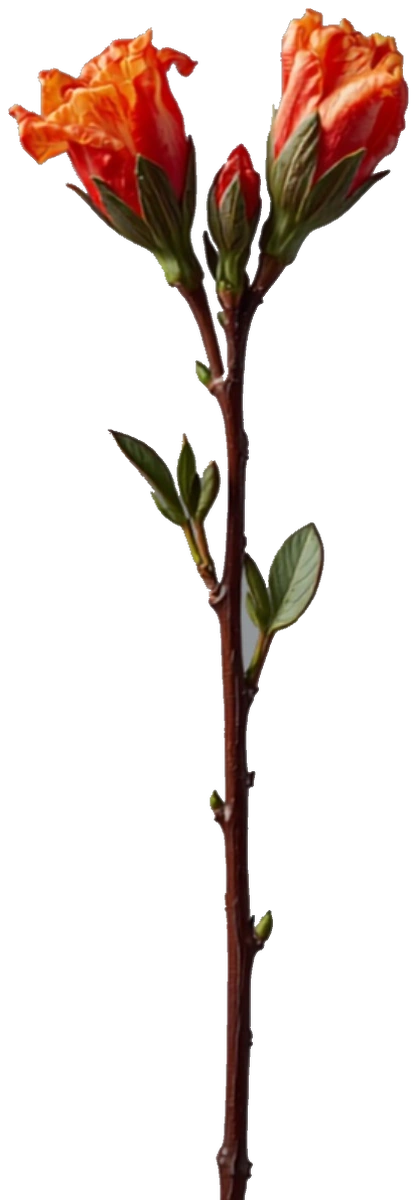
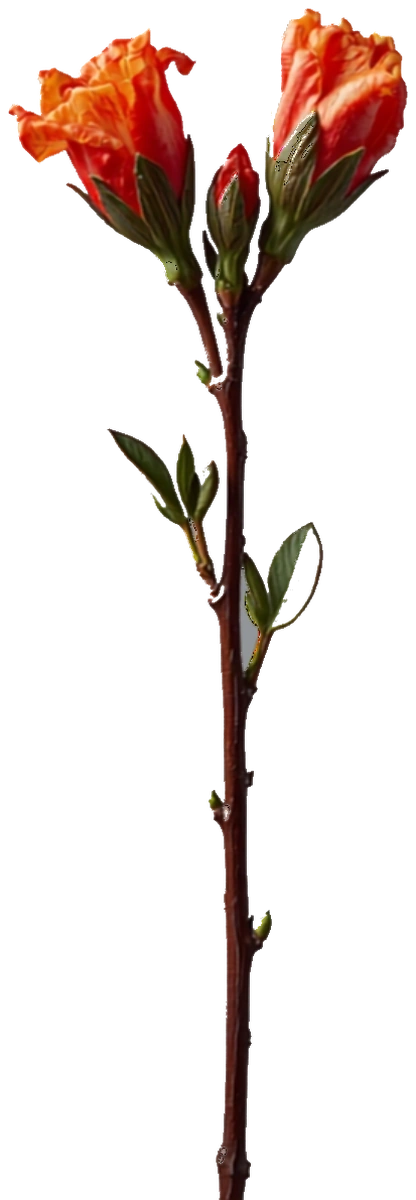
仏手柑を不採用・削除、牡丹/石榴花/桂花を高精度に再切り抜き (#3)
仏手柑(F028)を考証で不採用としFLOWERSから削除、W003のmorimono様式を復元。
牡丹/石榴花/桂花を指定候補(左から3番目)で再切り抜き。make_flower_asset.pyに
高精度マッティング(ソフトアルファ・despill・--global内部背景除去)を実装。テスト18件グリーン。

diff --git a/tests/hana-ar.spec.js b/tests/hana-ar.spec.js
@@ -128,18 +128,12 @@ async function run() {
     assert(!names.includes("松竹梅"), "松竹梅が出てしまっている");
   });
 
-  await bt("bt06", "器適合: W003は夏タブ=蓮・冬タブ=仏手柑(盛物)", async (page) => {
+  await bt("bt06", "器適合: W003は蓮のみ表示", async (page) => {
     await page.goto(`${BASE}?work=W003`);
     await page.click("#startBtn");
     await page.waitForSelector("#thumbs .thumb");
-    // 既定は夏タブ（蓮のみ）
-    const summer = await page.$$eval("#thumbs .thumb .nm", els => els.map(e => e.textContent.trim()));
-    assert.deepStrictEqual(summer, ["蓮"], "夏タブ got: " + JSON.stringify(summer));
-    // 水盤は盛物も受けるので冬タブに仏手柑が出る
-    await page.click('#seasonTabs .tab[data-season="winter"]');
-    await page.waitForSelector("#thumbs .thumb");
-    const winter = await page.$$eval("#thumbs .thumb .nm", els => els.map(e => e.textContent.trim()));
-    assert.deepStrictEqual(winter, ["仏手柑"], "冬タブ got: " + JSON.stringify(winter));
+    const names = await page.$$eval("#thumbs .thumb .nm", els => els.map(e => e.textContent.trim()));
+    assert.deepStrictEqual(names, ["蓮"]);
   });
 
   await bt("bt07", "花サムネイルタップで配置される", async (page) => {

diff --git a/scripts/make_flower_asset.py b/scripts/make_flower_asset.py
@@ -123,6 +123,121 @@ def remove_background(img, tolerance, gradient=False):
     return img
 
 
+def _global_bg_mask(img_rgba, tolerance, gradient):
+    """連結性を使わず、背景色に近い画素を全て背景とみなすマスク（bytearray）。
+    葉などに囲まれ外周とつながらない内部の背景ポケットも除去できる。
+    被写体に背景色（無彩色・淡色）の部分が無い花材専用（例: 桂花・石榴花）。
+    """
+    w, h = img_rgba.size
+    px = img_rgba.load()
+    border = []
+    for x in range(w):
+        border.append(px[x, 0][:3]); border.append(px[x, h - 1][:3])
+    for y in range(h):
+        border.append(px[0, y][:3]); border.append(px[w - 1, y][:3])
+    n = len(border)
+    bg = tuple(sum(c[i] for c in border) // n for i in range(3))
+    def lum(c): return (c[0]*299 + c[1]*587 + c[2]*114)//1000
+    def sat(c): return max(c) - min(c)
+    mask = bytearray(w * h)
+    for y in range(h):
+        row = y*w
+        for x in range(w):
+            c = px[x, y][:3]
+            if gradient:
+                ok = sat(c) <= 30 and abs(lum(c) - lum(bg)) <= tolerance
+            else:
+                ok = (abs(c[0]-bg[0]) <= tolerance and abs(c[1]-bg[1]) <= tolerance
+                      and abs(c[2]-bg[2]) <= tolerance)
+            if ok:
+                mask[row + x] = 1
+    return mask, bg
+
+
+def remove_background_precise(img, tolerance=28, gradient=False, band=3,
+                             feather_lo=None, feather_hi=None,
+                             speck_frac=0.0002, hole_frac=0.0008, connected=True):
+    """高精度な背景除去（numpy/scipy利用）。切り抜き境界の甘さを最小化する。
+
+    通常/フリンジ抑制版(remove_background)との違い:
+      - アンチエイリアス: 境界画素のアルファを背景色との距離で連続的に決め、ギザつきを無くす
+      - エッジ除染(despill): 半透明画素から背景色の混色分を差し引き、灰色のフチ残りを消す
+      - 背景場推定: 前景を最近傍背景色で埋めた「背景色マップ」を基準にするためグラデ背景に強い
+      - ゴミ除去: 微小な不透明の孤立塊（切り抜き残り）を除去
+      - 穴埋め: 被写体内部の小さな透明穴（背景色に近い花芯等の誤除去）を埋める
+    numpy/scipy が無い環境では ImportError。その場合は remove_background にフォールバックする。
+    """
+    import numpy as np
+    from scipy import ndimage
+
+    src = img.convert("RGB")
+    w, h = src.size
+    arr = np.asarray(src, dtype=np.float32)  # (h, w, 3)
+
+    # 1) 背景マスク。connected=True は外周からのフラッドフィル（被写体内の同色域を保護）、
+    #    connected=False は色のみで判定（葉に囲まれた内部の背景ポケットも除去）
+    if connected:
+        mask_bytes, _bg = flood_background_mask(src.convert("RGBA"), tolerance, gradient=gradient)
+    else:
+        mask_bytes, _bg = _global_bg_mask(src.convert("RGBA"), tolerance, gradient=gradient)
+    bg_mask = np.frombuffer(bytes(mask_bytes), dtype=np.uint8).reshape(h, w).astype(bool)
+    fg_mask = ~bg_mask
+    if not fg_mask.any():
+        raise SystemExit("エラー: 不透明画素がありません（toleranceを下げてください）")
+
+    # 2) 背景色マップ: 前景画素を最近傍の背景画素色で埋める（グラデ背景の局所基準色）
+    idx = ndimage.distance_transform_edt(fg_mask, return_distances=False, return_indices=True)
+    bg_field = arr[tuple(idx)]  # (h, w, 3)
+
+    # 3) 局所背景との色距離 → 境界のソフトアルファ
+    dist = np.abs(arr - bg_field).sum(axis=2)  # 0..765
+    lo = tolerance if feather_lo is None else feather_lo
+    hi = tolerance * 3 if feather_hi is None else feather_hi
+    alpha_color = np.clip((dist - lo) / max(1.0, (hi - lo)), 0.0, 1.0)
+
+    # 4) 境界帯（背景からband px以内の前景）だけをソフト化。内部前景は完全不透明のまま
+    dfrombg = ndimage.distance_transform_edt(fg_mask)
+    band_mask = fg_mask & (dfrombg <= band)
+    alpha = fg_mask.astype(np.float32)
+    alpha[band_mask] = alpha_color[band_mask]
+    alpha[bg_mask] = 0.0
+
+    # 5) エッジ除染: 半透明画素の色から背景寄与を差し引く（灰色フチ除去）
+    a3 = alpha[:, :, None]
+    with np.errstate(divide="ignore", invalid="ignore"):
+        fg_col = (arr - (1.0 - a3) * bg_field) / np.where(a3 > 0, a3, 1.0)
+    fg_col = np.clip(fg_col, 0, 255)
+    partial = (alpha > 0) & (alpha < 1)
+    out_rgb = arr.copy()
+    out_rgb[partial] = fg_col[partial]
+
+    # 6) 微小な不透明ゴミの除去（面積 < speck_frac の孤立塊）
+    solid = alpha > 0.5
+    lbl, n = ndimage.label(solid)
+    if n > 0:
+        sizes = ndimage.sum(np.ones_like(lbl), lbl, index=range(1, n + 1))
+        min_area = max(30.0, speck_frac * h * w)
+        keep = np.where(sizes >= min_area)[0] + 1
+        drop = solid & ~np.isin(lbl, keep)
+        alpha[drop] = 0.0
+
+    # 7) 被写体内部の小さな透明穴を埋める（外周に連結しない透明塊のみ）
+    holes = alpha < 0.5
+    lblh, nh = ndimage.label(holes)
+    if nh > 0:
+        border = set(np.unique(np.concatenate(
+            [lblh[0, :], lblh[-1, :], lblh[:, 0], lblh[:, -1]])).tolist())
+        for lab in range(1, nh + 1):
+            if lab in border:
+                continue
+            comp = lblh == lab
+            if comp.sum() < hole_frac * h * w:
+                alpha[comp] = 1.0
+
+    out = np.dstack([out_rgb, alpha * 255.0]).astype(np.uint8)
+    return Image.fromarray(out, "RGBA")
+
+
 def trim_and_resize(img, target_h=1200, max_long=1600, pad=8):
     bbox = img.getbbox()  # アルファ0を除いた範囲
     if bbox is None:
@@ -189,10 +304,29 @@ def main():
                          "低彩度＋近傍明度差で背景を辿る")
     ap.add_argument("--morimono", action="store_true",
                     help="盛物（茎の留めが無く器の上に載る構成）。アンカーを全体水平重心にする")
+    ap.add_argument("--band", type=int, default=3,
+                    help="高精度モードで境界をソフト化する帯の幅(px)。既定3")
+    ap.add_argument("--feather", type=int, nargs=2, metavar=("LO", "HI"), default=None,
+                    help="高精度モードのソフトアルファ境界（色距離 lo hi）。既定 tolerance と tolerance*3")
+    ap.add_argument("--global", dest="global_bg", action="store_true",
+                    help="連結性を使わず色だけで背景除去（葉に囲まれた内部の背景ポケットも除去）。"
+                         "被写体に淡色・無彩色部分が無い花材専用（例: 桂花・石榴花）")
+    ap.add_argument("--legacy", action="store_true",
+                    help="numpy/scipyを使わず旧フリンジ抑制方式で処理する（フォールバック）")
     args = ap.parse_args()
 
     img = Image.open(args.input)
-    img = remove_background(img, args.tolerance, gradient=args.gradient)
+    lo, hi = (args.feather if args.feather else (None, None))
+    if args.legacy:
+        img = remove_background(img, args.tolerance, gradient=args.gradient)
+    else:
+        try:
+            img = remove_background_precise(img, args.tolerance, gradient=args.gradient,
+                                            band=args.band, feather_lo=lo, feather_hi=hi,
+                                            connected=not args.global_bg)
+        except ImportError:
+            print("警告: numpy/scipy が無いため旧方式にフォールバックします")
+            img = remove_background(img, args.tolerance, gradient=args.gradient)
     img = trim_and_resize(img)
     anchor = compute_anchor(img, morimono=args.morimono)
     q, kb = save_webp(img, args.output)

diff --git a/AR花いけ_引き継ぎ一式_v1.md b/AR花いけ_引き継ぎ一式_v1.md
@@ -423,3 +423,42 @@ v1.6の蝋梅（F021）に続き、同一パイプライン（`scripts/make_flow
 - 石榴花：壺形の萼・縮緬状の朱赤花弁は良好。
 - 桂花：対生の革質葉・葉腋の小花房は良好。花色は金木犀（橙金）。
 - 仏手柑：指状に分かれた果実の形は明瞭。丸い果実も併置。器・盤は写り込んでいない。
+
+---
+
+## 19. 変更履歴 v1.8（2026-07-15 追記）— 仏手柑を不採用・3種を高精度に再切り抜き
+
+### 仏手柑（F028）を不採用・削除
+学芸員判断により仏手柑を不採用とした。`hana-ar.html` の `FLOWERS` から F028 を削除し、
+v1.7で追加した **W003 白磁水盤の `morimono` 様式を元に戻した**（`["shin","bunjin"]`）。
+`assets/flowers/` の winter-morimono-busshukan.webp も削除。管理シートは状態を「依頼中」に戻し、
+備考に「考証で不採用（アプリ未登録）」と記録。テスト bt06 も元の「W003は蓮のみ表示」に戻した。
+
+### 牡丹・石榴花・桂花を指定候補で高精度に再切り抜き
+Junt指定により各花材とも**左から3番目の候補**（botan3 / zakuro3 / keika3）を元画像として採用し、
+切り抜き精度を上げた。前回（v1.7）より高品質（Canva JPG品質100で再エクスポート）で取得し直している。
+
+| ID | 花材 | 元候補 | 処理オプション | サイズ/容量 | アンカー |
+|---|---|---|---|---|---|
+| F029 | 牡丹 | 候補3 | 連結フラッド `--tolerance 58` | 494×1200 / 80KB | {0.448, 0.999} |
+| F009 | 石榴花 | 候補3 | `--global --tolerance 42` | 416×1200 / 71KB | {0.555, 0.999} |
+| F016 | 桂花 | 候補3 | `--global --tolerance 46` | 332×1200 / 91KB | {0.489, 0.999} |
+
+### パイプライン（make_flower_asset.py）の高精度化
+切り抜きの甘さ（フチの灰色残り・ギザつき・内部の背景ポケット）を最小化するため、numpy/scipy を用いた
+高精度マッティングを既定にした（未導入環境は `--legacy` で旧方式にフォールバック）。
+1. **アンチエイリアスなソフトアルファ**：境界画素のアルファを背景色との距離で連続化しギザつきを除去
+2. **エッジ除染（despill）**：半透明画素から背景色の混色分を差し引き、灰色のフチ残りを消す
+3. **背景色マップ**：前景を最近傍背景色で埋めた基準でグラデ背景にも強い
+4. **微小ゴミ除去・小穴埋め**：切り抜き残りの孤立塊を除去、被写体内部の小穴を補間
+5. **`--global`**：連結性を使わず色だけで背景判定（**葉に囲まれ外周とつながらない内部の背景ポケット**も除去）。
+   被写体に淡色・無彩色部分が無い花材専用（桂花・石榴花で使用）。淡色の牡丹は連結フラッドのまま許容差を上げて対応。
+
+### テスト（18件グリーンを維持）
+仏手柑削除に伴い bt06 を「W003は蓮のみ表示」に戻した。W001の季節フィルタ（bt04/bt14）は
+石榴花・桂花が残るため v1.7 のまま。実行して 18/18 グリーンを確認。牡丹・石榴花・桂花は
+アプリ内スクリーンショットで、フチの灰色残りが無いことを目視確認済み。
+
+### 残る軽微な点
+桂花・石榴花とも、密な葉／曲がった葉の隙間にごく小さな背景片が残る場合がある（純色背景でのみ視認できる程度）。
+実運用のカメラ映像上ではほぼ判別不能。さらに詰める場合は該当花材の `--tolerance` を上げる。

diff --git a/AI生成花材_プロンプト集.md b/AI生成花材_プロンプト集.md
@@ -1,7 +1,8 @@
 # AI生成花材プロンプト集（全29種・季節別）
 
 対象: 花材調達管理シート 全項目（元28種＋牡丹の追加項目）
-版: v2.2（2026-07-15）— ③区分5種を全てAI生成・採用（生成実績を各項に記録）
+版: v2.3（2026-07-15）— 仏手柑は考証で不採用。牡丹・石榴花・桂花は指定候補で高精度に再切り抜き
+旧版: v2.2（2026-07-15）— ③区分5種を全てAI生成・採用（生成実績を各項に記録）
 旧版: v2.1（2026-07-15）— v2.0再構成時に脱落していた③区分5種（牡丹・石榴花・桂花・蝋梅・仏手柑の盛物）を補筆
 旧版: v2.0（2026-07-12）— 全種プロンプトを整備し、季節別に再構成
 
@@ -155,7 +156,7 @@
 
 **ネガティブ指定**：緑色の草質の茎（芍薬との混同）、花瓶、鉢、垂れ下がる構図
 
-**生成実績**：2026-07-15、Canva AIで生成・採用（F029、spring-bunjin-botan.webp）。淡色の花弁＋ビネット背景のため、背景除去は通常フラッドフィルの許容差を上げて対応（`--tolerance 62`）。
+**生成実績**：2026-07-15、Canva AIで生成・採用（F029、spring-bunjin-botan.webp）。候補3を採用。淡色花弁＋ビネット背景のため連結フラッドフィル＋高精度マッティングで処理（`--tolerance 58`）。
 
 ---
 
@@ -195,7 +196,7 @@
 
 **ネガティブ指定**：椿・ハイビスカスとの混同、裂けた果実（花の段階を描く）、花瓶、鉢
 
-**生成実績**：2026-07-15、Canva AIで生成・採用（F009、summer-bunjin-zakurobana.webp）。壺形の萼＋縮緬状の朱赤花弁がよく再現された候補を選択。
+**生成実績**：2026-07-15、Canva AIで生成・採用（F009、summer-bunjin-zakurobana.webp）。候補3を採用。壺形の萼＋縮緬状の朱赤花弁が良好。高精度マッティング＋色ベース背景除去で処理（`--global --tolerance 42`）。
 
 ---
 
@@ -319,7 +320,7 @@
 
 **ネガティブ指定**：大きな花（キンモクセイの花は小さい）、桜・梅との混同、花瓶、鉢
 
-**生成実績**：2026-07-15、Canva AIで生成・採用（F016、autumn-bunjin-keika.webp）。対生の革質葉＋葉腋の橙金色花房が明瞭な候補を選択。
+**生成実績**：2026-07-15、Canva AIで生成・採用（F016、autumn-bunjin-keika.webp）。候補3を採用。密な葉に囲まれた内部背景を消すため色ベース背景除去で処理（`--global --tolerance 46`）。
 
 ---
 
@@ -541,7 +542,7 @@
 
 **ネガティブ指定**：レモン・ゆず（指状に分かれない）との混同、器・盤に盛られた状態、CGらしい過剰な光沢
 
-**生成実績**：2026-07-15、Canva AIで生成・採用（F028、winter-morimono-busshukan.webp、`--morimono`）。指状に分かれた果実＋丸い果実＋葉の盛物構成。盛物は茎の留めが無いため、アンカーは全体水平重心で算出。
+**生成実績**：2026-07-15、Canva AIで生成したが**学芸員の考証で不採用**（アプリ未登録・F028欠番）。盛物は現行サンプル作品に適合器が無いこと、及び画像の完成度から見送り。再挑戦時は本プロンプトを流用可。
 
 ---
 

diff --git a/assets/flowers/README.md b/assets/flowers/README.md
@@ -10,7 +10,6 @@
 | spring-bunjin-botan.webp | F029 | 牡丹 | ③ Canva AI | 考証チェック待ち |
 | summer-bunjin-zakurobana.webp | F009 | 石榴花 | ③ Canva AI | 考証チェック待ち |
 | autumn-bunjin-keika.webp | F016 | 桂花 | ③ Canva AI | 考証チェック待ち |
-| winter-morimono-busshukan.webp | F028 | 仏手柑 | ③ Canva AI | 考証チェック待ち |
 
 考証チェックで不採用になった花材は、`hana-ar.html` の該当 `FLOWERS` エントリを削除し、
 `素材調達管理シート.xlsx` の状態を戻すこと。